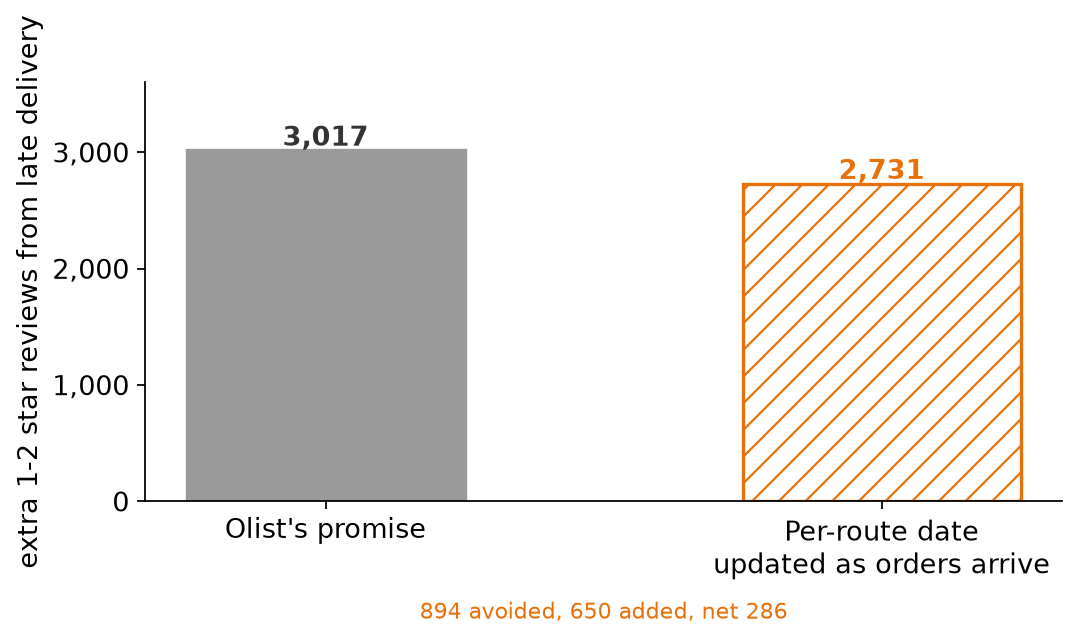
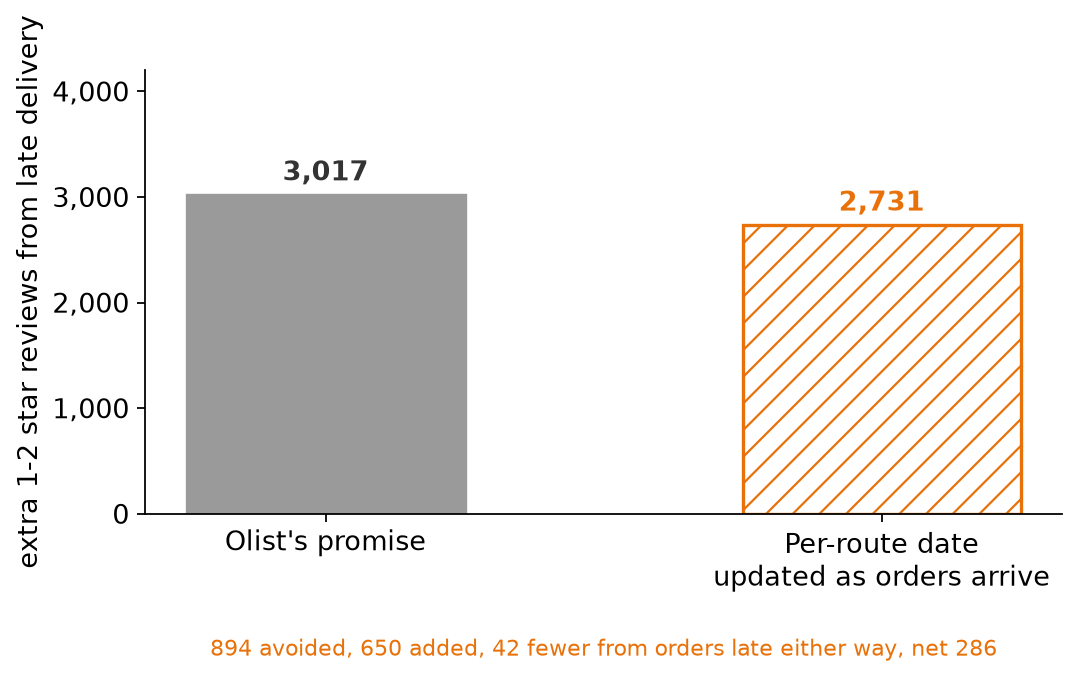
Add the still-late term to the promised-date net
The 286 reduction is 894 avoided minus 650 added plus 42 from orders
late either way, not 894 minus 650. The caption, chart, and case study
now include that third term, and the check fails if the parts do not
sum to the net. The pass bar now requires the reduction interval to
lie entirely above zero.

diff --git a/recommendation/promise_backtest/evaluate.py b/recommendation/promise_backtest/evaluate.py
@@ -88,15 +88,16 @@ def apply_bar(v2_net: dict, march_policy: float, march_olist: float, v4_net: dic
     floor8 = 0.08 * v2_net["extra_olist"]
     c1 = reduction >= 250
     c2 = reduction >= floor8
-    c3 = ((v2_net["ci_net_hi"] < 0) or (v2_net["ci_net_lo"] > 0)) and v2_net["ci_net_hi"] != 0 and v2_net["ci_net_lo"] != 0
+    # Reduction-side only: the interval on the reduction must lie entirely above 0.
+    c3 = v2_net["ci_reduction_lo"] > 0
     c4 = march_policy <= march_olist
-    v4_ok = (v4_net["reduction"] > 0) and ((v4_net["ci_net_hi"] < 0) or (v4_net["ci_net_lo"] > 0)) and (v4_net["net_change"] <= 0)
+    v4_ok = v4_net["ci_reduction_lo"] > 0
     checks = [
         {"id": 1, "name": "Net reduction at least 250", "pass": bool(c1), "observed": reduction, "required": 250},
         {"id": 2, "name": "Net reduction at least 8% of window Olist extra", "pass": bool(c2), "observed": reduction, "required": floor8},
-        {"id": 3, "name": "95% interval on the net excludes 0", "pass": bool(c3), "observed": [v2_net["ci_net_lo"], v2_net["ci_net_hi"]]},
+        {"id": 3, "name": "95% interval on the reduction lies entirely above 0", "pass": bool(c3), "observed": [v2_net["ci_reduction_lo"], v2_net["ci_reduction_hi"]]},
         {"id": 4, "name": "March 2018 extra is not higher than Olist", "pass": bool(c4), "observed": {"policy": march_policy, "olist": march_olist}},
-        {"id": 5, "name": "V4 sensitivity net reduction, interval excludes 0", "pass": bool(v4_ok), "observed": {"reduction": v4_net["reduction"], "ci_net": [v4_net["ci_net_lo"], v4_net["ci_net_hi"]]}},
+        {"id": 5, "name": "V4 sensitivity: 95% interval on the reduction lies entirely above 0", "pass": bool(v4_ok), "observed": {"reduction": v4_net["reduction"], "ci_reduction": [v4_net["ci_reduction_lo"], v4_net["ci_reduction_hi"]]}},
     ]
     return {"checks": checks, "overall_pass": all(c["pass"] for c in checks), "failed": [c["name"] for c in checks if not c["pass"]]}
 
@@ -197,19 +198,44 @@ def evaluate(scored: pd.DataFrame, v2: dict | None = None, v4: dict | None = Non
     }
     # Display rounding used on the case study page.
     p95 = out["v2"]["window"]["p95"]
+    st = out["four_states"]["p95"]
+    avoided = -st["newly_on_time"]["sum_delta"]
+    added = st["newly_late"]["sum_delta"]
+    still_red = -st["still_late"]["sum_delta"]
+    if abs(st["still_on_time"]["sum_delta"]) > 1e-9:
+        raise ValueError("still-on-time contribution is not 0")
+    parts = avoided - added + still_red
+    if abs(parts - p95["reduction"]) > 1e-6:
+        raise ValueError(f"four-state identity failed: {parts} vs reduction {p95['reduction']}")
+    if abs(parts + st["sum_delta_all"]) > 1e-6:
+        raise ValueError(f"four-state identity failed vs sum_delta_all: {parts} vs {-st['sum_delta_all']}")
+    avoided_r = int(round(avoided))
+    added_r = int(round(added))
+    still_r = int(round(still_red))
+    net_r = int(round(p95["reduction"]))
+    if avoided_r - added_r + still_r != net_r:
+        raise ValueError(
+            f"rounded parts do not equal the net: {avoided_r} - {added_r} + {still_r} = {avoided_r - added_r + still_r}, net {net_r}"
+        )
+    p90_added_r = int(round(-out["v2"]["window"]["p90"]["reduction"]))
     out["display"] = {
         "n_reviewed": out["n_reviewed"],
         "olist_extra_rounded": int(round(out["v2"]["window"]["olist_extra"])),
         "p95_extra_rounded": int(round(p95["extra_policy"])),
-        "p95_reduction_rounded": int(round(p95["reduction"])),
+        "p95_reduction_rounded": net_r,
         "p95_share_rounded_pct": int(round(100.0 * p95["reduction"] / out["v2"]["window"]["olist_extra"])),
         "range_lo_pct": 7,
         "range_hi_pct": 11,
-        "newly_on_time_n": out["four_states"]["p95"]["newly_on_time"]["n"],
-        "newly_on_time_avoided_rounded": int(round(-out["four_states"]["p95"]["newly_on_time"]["sum_delta"])),
-        "newly_late_n": out["four_states"]["p95"]["newly_late"]["n"],
-        "newly_late_added_rounded": int(round(out["four_states"]["p95"]["newly_late"]["sum_delta"])),
+        "newly_on_time_n": st["newly_on_time"]["n"],
+        "newly_on_time_avoided_rounded": avoided_r,
+        "newly_late_n": st["newly_late"]["n"],
+        "newly_late_added_rounded": added_r,
+        "still_late_n": st["still_late"]["n"],
+        "still_late_reduction_rounded": still_r,
+        "p90_added_rounded": p90_added_r,
+        "bootstrap_n": out["bootstrap"]["n_boot"],
         "bootstrap_reduction_lo_rounded": int(round(out["bootstrap"]["reduction_p025"])),
         "bootstrap_reduction_hi_rounded": int(round(out["bootstrap"]["reduction_p975"])),
+        "parts_sum_rounded": avoided_r - added_r + still_r,
     }
     return out

diff --git a/recommendation/promise_backtest/check_headlines.py b/recommendation/promise_backtest/check_headlines.py
@@ -82,6 +82,23 @@ def compare(got: dict, expected: dict) -> list[str]:
     return bad
 
 
+def readme_drift(display: dict, text: str) -> list[str]:
+    """Fail if the package README no longer states the locked display figures."""
+    d = display
+    boot = f"{d['bootstrap_n']:,}"
+    required = [
+        f"{d['n_reviewed']:,} reviewed orders",
+        f"cuts expected extra bad reviews by {d['p95_reduction_rounded']} versus Olist's {d['olist_extra_rounded']:,}",
+        f"about {d['p95_share_rounded_pct']}%",
+        f"An order bootstrap ({boot} resamples, effects held fixed) gives a range of {d['bootstrap_reduction_lo_rounded']} to {d['bootstrap_reduction_hi_rounded']} reviews, or about {d['range_lo_pct']}% to {d['range_hi_pct']}%",
+        f"{d['newly_on_time_n']:,} newly on-time orders avoid about {d['newly_on_time_avoided_rounded']}",
+        f"{d['newly_late_n']:,} newly late orders add about {d['newly_late_added_rounded']}",
+        f"about {d['still_late_reduction_rounded']} fewer come from orders late either way",
+        f"adds about {d['p90_added_rounded']:,} extra bad reviews",
+    ]
+    return [f"missing fragment: {frag!r}" for frag in required if frag not in text]
+
+
 def headline_payload(scored, integrity, ev) -> dict:
     p95 = ev["v2"]["window"]["p95"]
     return {
@@ -114,8 +131,6 @@ def run() -> dict:
         scored, integrity = score_dates(con)
     finally:
         con.close()
-    if integrity["leak_count"] != 0:
-        sys.exit(f"as-of leak_count={integrity['leak_count']}, expected 0")
     if integrity["missing_pred"] != 0:
         sys.exit(f"missing_pred={integrity['missing_pred']}, expected 0")
     ev = evaluate(scored)
@@ -126,6 +141,17 @@ def run() -> dict:
         sys.exit(f"bootstrap percent interval {lo:.3f} to {hi:.3f} no longer supports a 7% to 11% range")
     if ev["display"]["range_lo_pct"] != 7 or ev["display"]["range_hi_pct"] != 11:
         sys.exit("display range drifted from 7% to 11%")
+    d = ev["display"]
+    if d["parts_sum_rounded"] != d["p95_reduction_rounded"]:
+        sys.exit(
+            f"rounded four-state parts do not equal the net: "
+            f"{d['newly_on_time_avoided_rounded']} - {d['newly_late_added_rounded']} + "
+            f"{d['still_late_reduction_rounded']} = {d['parts_sum_rounded']}, "
+            f"net {d['p95_reduction_rounded']}"
+        )
+    readme_problems = readme_drift(d, (HERE / "README.md").read_text())
+    if readme_problems:
+        sys.exit("README drift:\n" + "\n".join(readme_problems))
     return headline_payload(scored, integrity, ev)
 
 

diff --git a/recommendation/promise_backtest/score.py b/recommendation/promise_backtest/score.py
@@ -7,6 +7,7 @@ except when falling back to a thin global history.
 from __future__ import annotations
 
 import math
+from bisect import bisect_left
 from datetime import date, timedelta
 from pathlib import Path
 
@@ -37,8 +38,6 @@ class ChunkedSorted:
         self.n = 0
 
     def add(self, x: int) -> None:
-        from bisect import bisect_left
-
         self.n += 1
         if not self.chunks:
             self.chunks.append([x])
@@ -174,11 +173,11 @@ def score_dates(con: duckdb.DuckDBPyConnection) -> tuple[pd.DataFrame, dict]:
         events.append((pd.Timestamp(r["purchased_at"]), 0, i))
         if pd.notna(r["delivered_at"]):
             events.append((pd.Timestamp(r["delivered_at"]), 1, i))
+    # Purchases (kind 0) are scored before deliveries (kind 1) at the same timestamp,
+    # so a delivery enters history only when its timestamp is strictly earlier.
     events.sort(key=lambda e: (e[0], e[1], e[2]))
 
     hist = KeyHists()
-    last_delivery = None
-    leak_count = 0
     missing_pred = 0
     scored_rows = []
 
@@ -191,14 +190,9 @@ def score_dates(con: duckdb.DuckDBPyConnection) -> tuple[pd.DataFrame, dict]:
                 actual = int(r["actual_days"])
                 for _label, key in route_keys(route, state):
                     hist.add(key, actual)
-            if last_delivery is None or ts > last_delivery:
-                last_delivery = ts
             continue
 
         purchased_at = pd.Timestamp(r["purchased_at"])
-        if last_delivery is not None and last_delivery >= purchased_at:
-            leak_count += 1
-
         is_scored = r["is_judged"] and pd.Timestamp(r["purchase_date"]).date() >= BURN_IN
         if not is_scored:
             continue
@@ -238,7 +232,6 @@ def score_dates(con: duckdb.DuckDBPyConnection) -> tuple[pd.DataFrame, dict]:
 
     scored = pd.DataFrame(scored_rows)
     integrity = {
-        "leak_count": leak_count,
         "missing_pred": missing_pred,
         "n_scored": int(len(scored)),
         "burn_in": BURN_IN.isoformat(),

diff --git a/case_study/check_case_study.py b/case_study/check_case_study.py
@@ -155,12 +155,12 @@ def build_claims(con):
         "report",
     )
     add(
-        f"about {P['newly_on_time_n']:,} orders that had been late would have been on time, avoiding about {P['newly_on_time_avoided_rounded']} bad reviews, while about {P['newly_late_n']:,} orders that had been on time would have been late, adding about {P['newly_late_added_rounded']}",
+        f"about {P['newly_on_time_n']:,} orders that had been late would have been on time, avoiding about {P['newly_on_time_avoided_rounded']} bad reviews, while about {P['newly_late_n']:,} orders that had been on time would have been late, adding about {P['newly_late_added_rounded']}, plus about {P['still_late_reduction_rounded']} fewer from orders late either way",
         "report",
     )
     add("A looser 9-out-of-10 date made things worse", "report")
     add(
-        f"A per-route 19-out-of-20 date cuts extra late-delivery bad reviews from about {P['olist_extra_rounded']:,} to about {P['p95_extra_rounded']:,}, a net of about {P['p95_reduction_rounded']} (about {P['newly_on_time_avoided_rounded']} avoided minus about {P['newly_late_added_rounded']} added)",
+        f"A per-route 19-out-of-20 date cuts extra late-delivery bad reviews from about {P['olist_extra_rounded']:,} to about {P['p95_extra_rounded']:,}, a net of about {P['p95_reduction_rounded']} (about {P['newly_on_time_avoided_rounded']} avoided, minus about {P['newly_late_added_rounded']} added, plus about {P['still_late_reduction_rounded']} fewer from orders late either way)",
         "report",
     )
     return out

diff --git a/case_study/build_figures.py b/case_study/build_figures.py
@@ -153,13 +153,22 @@ def fig_promise():
     net = ev["p95_reduction_rounded"]
     avoided = ev["newly_on_time_avoided_rounded"]
     added = ev["newly_late_added_rounded"]
-    fig, ax = plt.subplots(figsize=(7.4, 3.4))
+    still = ev["still_late_reduction_rounded"]
+    fig, ax = plt.subplots(figsize=(7.4, 3.6))
     labels = ["Olist's promise", "Per-route date\nupdated as orders arrive"]
     ax.bar(labels, [olist, p95], color=[GRAY, "white"], edgecolor=[GRAY, ORANGE], hatch=["", "//"], width=0.5, lw=1.5)
-    ax.text(0, olist + 40, f"{olist:,}", ha="center", fontweight="bold", color=DARK)
-    ax.text(1, p95 + 40, f"{p95:,}", ha="center", fontweight="bold", color=ORANGE)
-    ax.text(0.5, -0.28, f"{avoided:,} avoided, {added:,} added, net {net:,}", transform=ax.transAxes, ha="center", color=ORANGE, fontsize=10)
-    ax.set_ylim(0, 3600)
+    ax.text(0, olist + 140, f"{olist:,}", ha="center", fontweight="bold", color=DARK)
+    ax.text(1, p95 + 140, f"{p95:,}", ha="center", fontweight="bold", color=ORANGE)
+    ax.text(
+        0.5,
+        -0.32,
+        f"{avoided:,} avoided, {added:,} added, {still:,} fewer from orders late either way, net {net:,}",
+        transform=ax.transAxes,
+        ha="center",
+        color=ORANGE,
+        fontsize=10,
+    )
+    ax.set_ylim(0, 4200)
     ax.set_ylabel("extra 1-2 star reviews from late delivery")
     ax.yaxis.set_major_formatter(lambda v, _: f"{v:,.0f}")
     save(fig, "promise_date.png")

diff --git a/recommendation/promise_backtest/README.md b/recommendation/promise_backtest/README.md
@@ -10,14 +10,14 @@ Needs a built warehouse (`make build`). The warehouse path is `OLIST_DB_PATH`, o
 python recommendation/promise_backtest/check_headlines.py
 ```
 
-`make verify` runs that check. It rebuilds the walk-forward dates from the warehouse, applies the published V2 effects (V4 as a sensitivity), and fails if any locked headline in `expected.json` has drifted. `PASS_BAR.md` was locked before the totals were computed.
+`make verify` runs that check. It rebuilds the walk-forward dates from the warehouse, applies the published V2 effects (V4 as a sensitivity), and fails if any locked headline in `expected.json` has drifted. The pass bar was written before the totals; both land in the same commit. The figures in the section below are also checked against `expected.json`.
 
 ## What the analysis found
 
-On 89,412 reviewed orders purchased from April 2017 onward, the pre-declared route p95 date (arrive by 19 times out of 20) cuts expected extra bad reviews by 286 versus Olist's 3,017, about 9%. An order bootstrap (5,000 resamples, effects held fixed) gives a range of 225 to 345 reviews, or about 7% to 11%. That cut is a net: 2,337 newly on-time orders avoid about 894 extra bad reviews, and 1,839 newly late orders add about 650. March 2018 also improves. The locked pass bar is met. The looser route p90 date (arrive by 9 times out of 10) fails the bar and adds about 1,739 extra bad reviews, because it marks too many orders late.
+On 89,412 reviewed orders purchased from April 2017 onward, the pre-declared route p95 date (arrive by 19 times out of 20) cuts expected extra bad reviews by 286 versus Olist's 3,017, about 9%. An order bootstrap (5,000 resamples, effects held fixed) gives a range of 225 to 345 reviews, or about 7% to 11%. That cut is a net: 2,337 newly on-time orders avoid about 894 extra bad reviews, 1,839 newly late orders add about 650, and about 42 fewer come from orders late either way. March 2018 also improves. The pass bar is met. The looser route p90 date (arrive by 9 times out of 10) fails the bar and adds about 1,739 extra bad reviews, because it marks too many orders late.
 
 The data cannot measure checkout conversion or whether honest dates would raise repeat buying.
 
 ## Earlier delivery-date tests, in brief
 
-A more detailed walk-forward model (route, month, seller, load, and parcel weight) did not beat a simple walk-forward route median on accuracy. Its 9-out-of-10 date was too tight, especially in March 2018, so it failed a pre-registered accuracy and coverage bar. The simple route p90 date was close to real arrivals and well calibrated overall (88.5% coverage) but missed March 2018 (77.5% coverage). The pre-declared route p95 date held in March (87.3%) and stayed one day shorter than Olist's median promise, but it covered 93.55% of orders, just above a 93% cap set for that earlier test. Those coverage results are not re-tested here. This folder asks a different question: what the two simple dates would have done to late-delivery bad reviews.
+A more detailed walk-forward model (route, month, seller, load, and parcel weight) did not beat a simple walk-forward route median on accuracy. Its 9-out-of-10 date was too tight, especially in March 2018, so it failed a pre-registered accuracy and coverage bar. The simple route p90 date was close to real arrivals and well calibrated overall but missed March 2018. The pre-declared route p95 date held in March and stayed one day shorter than Olist's median promise, but it covered slightly more orders than a cap set for that earlier test. Those coverage results are not re-tested here. This folder asks a different question: what the two simple dates would have done to late-delivery bad reviews.

diff --git a/docs/CASE_STUDY.md b/docs/CASE_STUDY.md
@@ -177,11 +177,11 @@ Run two randomized tests before any rollout. Details and measures are in [recomm
 
 ### A short-term printed date
 
-The analysis also replayed history with a per-route delivery date, updated as orders arrive, in place of Olist's single promise. Actual delivery times were left unchanged. On the 89,412 reviewed orders from April 2017 onward, the stricter 19-out-of-20 per-route date would likely have cut the extra one- and two-star reviews attributed to late delivery by about 9% (about 286 of 3,017), with a realistic range of about 7% to 11% from resampling orders. That cut is a net: about 2,337 orders that had been late would have been on time, avoiding about 894 bad reviews, while about 1,839 orders that had been on time would have been late, adding about 650. A looser 9-out-of-10 date made things worse. This is a printed-date stopgap, not a logistics fix. The data cannot show whether a different date would have changed who bought, or whether it would have raised repeat buying.
+The analysis also replayed history with a per-route delivery date, updated as orders arrive, in place of Olist's single promise. Actual delivery times were left unchanged. On the 89,412 reviewed orders from April 2017 onward, the stricter 19-out-of-20 per-route date would likely have cut the extra one- and two-star reviews attributed to late delivery by about 9% (about 286 of 3,017), with a realistic range of about 7% to 11% from resampling orders. That cut is a net: about 2,337 orders that had been late would have been on time, avoiding about 894 bad reviews, while about 1,839 orders that had been on time would have been late, adding about 650, plus about 42 fewer from orders late either way. A looser 9-out-of-10 date made things worse. This is a printed-date stopgap, not a logistics fix. The data cannot show whether a different date would have changed who bought, or whether it would have raised repeat buying.
 
 ![Extra late-delivery bad reviews under Olist's promise and under a per-route date](img/promise_date.png)
 
-*A per-route 19-out-of-20 date cuts extra late-delivery bad reviews from about 3,017 to about 2,731, a net of about 286 (about 894 avoided minus about 650 added).*
+*A per-route 19-out-of-20 date cuts extra late-delivery bad reviews from about 3,017 to about 2,731, a net of about 286 (about 894 avoided, minus about 650 added, plus about 42 fewer from orders late either way).*
 
 ## How it was verified
 

diff --git a/docs/index.md b/docs/index.md
@@ -202,11 +202,11 @@ Run two randomized tests before any rollout. Details and measures are in [recomm
 
 ### A short-term printed date
 
-The analysis also replayed history with a per-route delivery date, updated as orders arrive, in place of Olist's single promise. Actual delivery times were left unchanged. On the 89,412 reviewed orders from April 2017 onward, the stricter 19-out-of-20 per-route date would likely have cut the extra one- and two-star reviews attributed to late delivery by about 9% (about 286 of 3,017), with a realistic range of about 7% to 11% from resampling orders. That cut is a net: about 2,337 orders that had been late would have been on time, avoiding about 894 bad reviews, while about 1,839 orders that had been on time would have been late, adding about 650. A looser 9-out-of-10 date made things worse. This is a printed-date stopgap, not a logistics fix. The data cannot show whether a different date would have changed who bought, or whether it would have raised repeat buying.
+The analysis also replayed history with a per-route delivery date, updated as orders arrive, in place of Olist's single promise. Actual delivery times were left unchanged. On the 89,412 reviewed orders from April 2017 onward, the stricter 19-out-of-20 per-route date would likely have cut the extra one- and two-star reviews attributed to late delivery by about 9% (about 286 of 3,017), with a realistic range of about 7% to 11% from resampling orders. That cut is a net: about 2,337 orders that had been late would have been on time, avoiding about 894 bad reviews, while about 1,839 orders that had been on time would have been late, adding about 650, plus about 42 fewer from orders late either way. A looser 9-out-of-10 date made things worse. This is a printed-date stopgap, not a logistics fix. The data cannot show whether a different date would have changed who bought, or whether it would have raised repeat buying.
 
 ![Extra late-delivery bad reviews under Olist's promise and under a per-route date](img/promise_date.png)
 
-*A per-route 19-out-of-20 date cuts extra late-delivery bad reviews from about 3,017 to about 2,731, a net of about 286 (about 894 avoided minus about 650 added).*
+*A per-route 19-out-of-20 date cuts extra late-delivery bad reviews from about 3,017 to about 2,731, a net of about 286 (about 894 avoided, minus about 650 added, plus about 42 fewer from orders late either way).*
 
 ## How it was verified
 

diff --git a/recommendation/promise_backtest/PASS_BAR.md b/recommendation/promise_backtest/PASS_BAR.md
@@ -6,9 +6,9 @@ A date (route p90 or route p95, each judged on its own) passes only if all of th
 
 1. Net reduction versus Olist is at least 250 extra bad reviews.
 2. The same net reduction is at least 8% of Olist's extra computed on this same scored window (not 8% of the full-population 3,110, because the scored window drops early-2017 orders).
-3. A 95% interval on the net, using the seed effect standard errors and treating the order counts as fixed, excludes 0.
+3. A 95% interval on the reduction, using the seed effect standard errors and treating the order counts as fixed, lies entirely above 0 (lower bound > 0).
 4. March 2018 extra under the date is not higher than Olist's March extra on the scored reviewed March orders.
-5. The V4 sensitivity also shows a net reduction whose interval excludes 0. It is not required to clear the 250 / 8% floors, but if V4's net is positive (more extra bad reviews) or its interval includes 0, the date does not pass.
+5. The V4 sensitivity also shows a net reduction whose 95% interval lies entirely above 0. It is not required to clear the 250 / 8% floors, but if that interval does not lie entirely above 0, the date does not pass.
 
 It does not help if no date clears all five. Do not change the bar to rescue a near miss.
 
